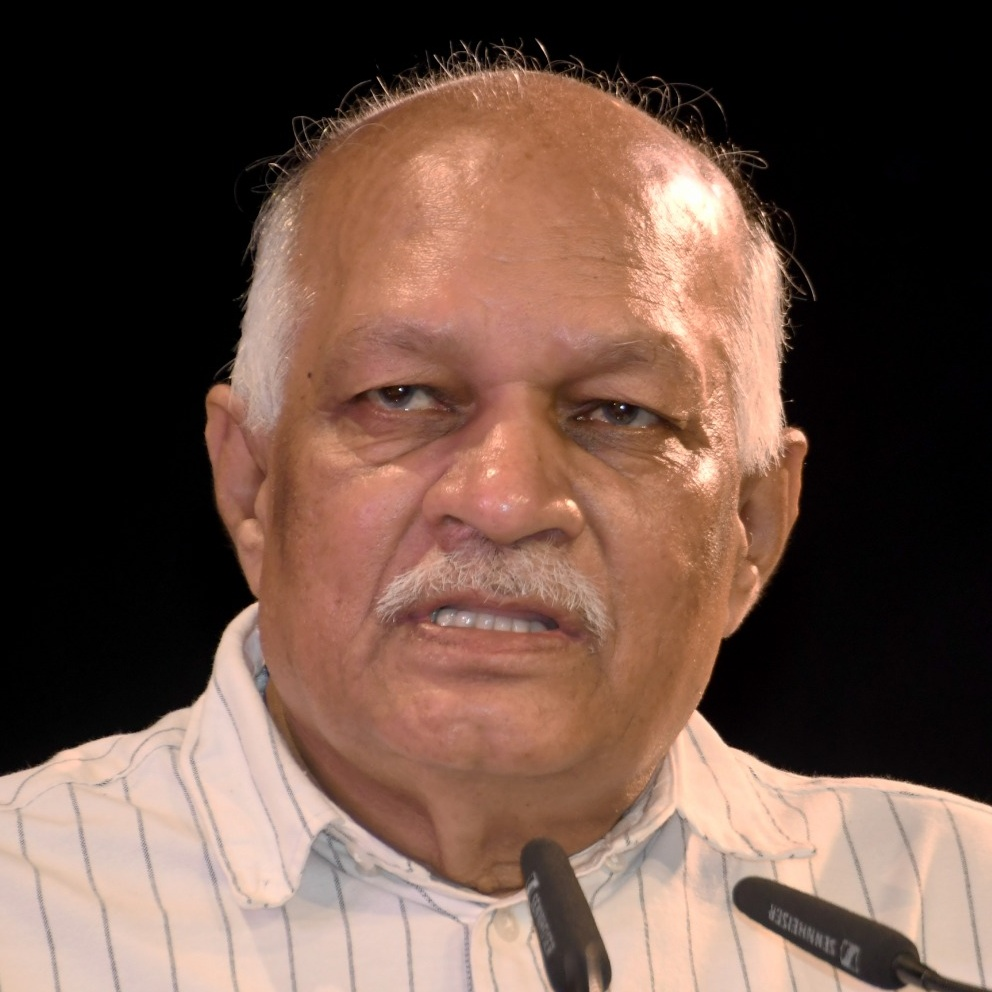
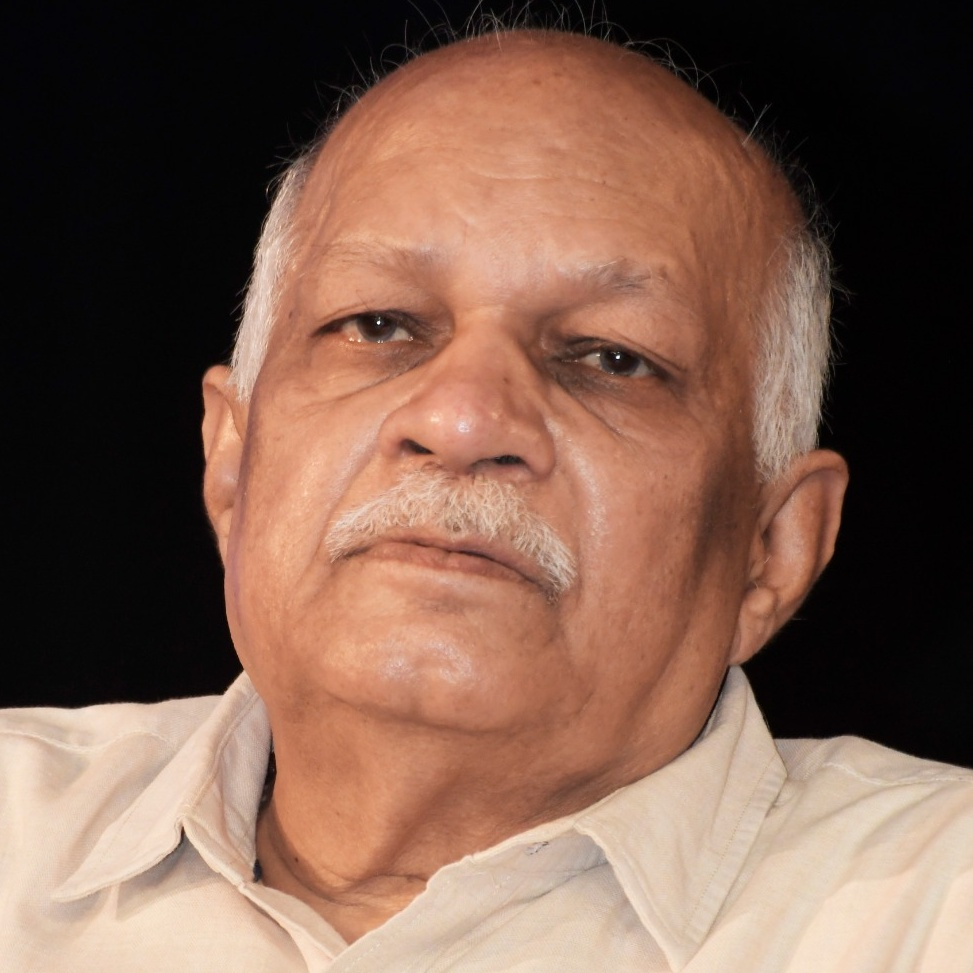
first commit

diff --git a/Certificates.dc.html b/Certificates.dc.html
@@ -38,16 +38,16 @@
     <h1 style="margin:0 0 26px;font-family:'Noto Serif Devanagari',serif;font-weight:600;font-size:clamp(25px,3.6vw,34px);line-height:1.3;color:#14203E">{{ t.title }}</h1>
 
     <div data-e="card" style="padding:26px;background:#FFFFFF;border-radius:22px;box-shadow:0 2px 4px rgba(20,32,62,.05),0 16px 34px rgba(20,32,62,.07)">
-      <div style="position:relative;overflow:hidden;border-radius:14px;border:1px dashed #D9C79C;background:repeating-linear-gradient(135deg,#FFFDF7 0 14px,#FCF8ED 14px 28px);aspect-ratio:1.414/1;display:flex;flex-direction:column;align-items:center;justify-content:center;gap:18px;text-align:center;padding:8%">
-        <span aria-hidden="true" style="position:absolute;inset:3%;border:1px solid rgba(217,188,124,.55);border-radius:8px;pointer-events:none"></span>
-        <span style="width:62px;height:62px;border-radius:50%;background:#F4EBD8;display:flex;align-items:center;justify-content:center">
-          <svg viewBox="0 0 32 32" width="30" height="30" fill="none" stroke="#8A6015" stroke-width="1.5" stroke-linecap="round" stroke-linejoin="round" aria-hidden="true" style="display:block"><rect x="5" y="6" width="22" height="15" rx="2"></rect><circle cx="16" cy="24" r="3.4"></circle><path d="M10 11h12M10 15h7"></path></svg>
-        </span>
-        <p style="margin:0;font-family:'Noto Serif Devanagari',serif;font-weight:600;font-size:clamp(20px,2.4vw,26px);line-height:1.4;color:#14203E">{{ t.emptyTitle }}</p>
+      <div style="container-type:inline-size;position:relative;overflow:hidden;border-radius:14px;aspect-ratio:1600/1131;background:#FFFDF7">
+        <img src="uploads/cert.jpeg" alt="{{ t.certAlt }}" style="position:absolute;inset:0;width:100%;height:100%;object-fit:contain;display:block" />
+        <p style="position:absolute;left:12%;right:12%;top:49%;margin:0;text-align:center;font-family:'Noto Serif Devanagari',serif;font-weight:600;font-size:4.2cqw;line-height:1.55;letter-spacing:.01em;color:#8C1A20;white-space:nowrap;overflow:hidden;text-overflow:ellipsis">{{ studentName }}</p>
       </div>
 
       <div style="display:flex;flex-wrap:wrap;gap:12px;margin-top:22px">
-        <button type="button" disabled="{{ true }}" style="min-height:54px;padding:15px 28px;border:0;border-radius:999px;background:#EDE6D7;color:#8B93A2;cursor:not-allowed;font-size:17px;font-weight:600;line-height:1.5;font-family:inherit">{{ t.download }}</button>
+        <a href="uploads/cert.jpeg" download="{{ fileName }}" style="min-height:54px;padding:15px 28px;border:0;border-radius:999px;background:linear-gradient(180deg,#F6E0AC 0%,#E8C173 100%);color:#1E1503;display:inline-flex;align-items:center;justify-content:center;gap:10px;font-size:17px;font-weight:600;line-height:1.5;text-decoration:none;box-shadow:0 10px 26px rgba(232,193,115,.28);transition:transform .2s ease" style-hover="transform:translateY(-2px)">
+          <svg viewBox="0 0 24 24" width="19" height="19" fill="none" stroke="#1E1503" stroke-width="1.9" stroke-linecap="round" stroke-linejoin="round" aria-hidden="true" style="display:block"><path d="M12 4v11m0 0-4.2-4.2M12 15l4.2-4.2M4.5 19.5h15"></path></svg>
+          {{ t.download }}
+        </a>
       </div>
     </div>
   </section>
@@ -60,13 +60,13 @@
 const S = {
   hi: {
     title: "प्रमाण पत्र",
-    emptyTitle: "प्रमाण पत्र अभी उपलब्ध नहीं",
-    download: "PDF डाउनलोड करें"
+    certAlt: "सहभागिता प्रमाण पत्र",
+    download: "प्रमाण पत्र डाउनलोड करें"
   },
   en: {
     title: "Certificate",
-    emptyTitle: "No certificate available yet",
-    download: "Download PDF"
+    certAlt: "Participation certificate",
+    download: "Download certificate"
   }
 };
 
@@ -84,6 +84,8 @@ class Component extends DCLogic {
     return {
       lang: lang,
       t: S[lang],
+      studentName: lang === "hi" ? "अनन्या वर्मा" : "Ananya Verma",
+      fileName: "shri-krishna-pathey-nyas-certificate.jpeg",
       toggleLang: () => {
         const next = lang === "hi" ? "en" : "hi";
         try { localStorage.setItem("skpn_lang", next); } catch (e) {}
